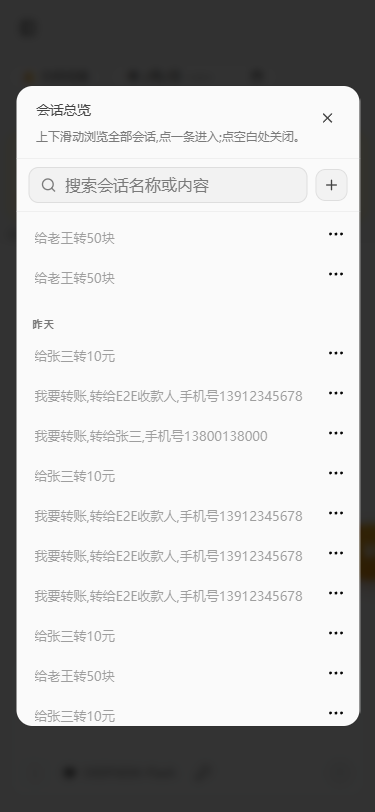
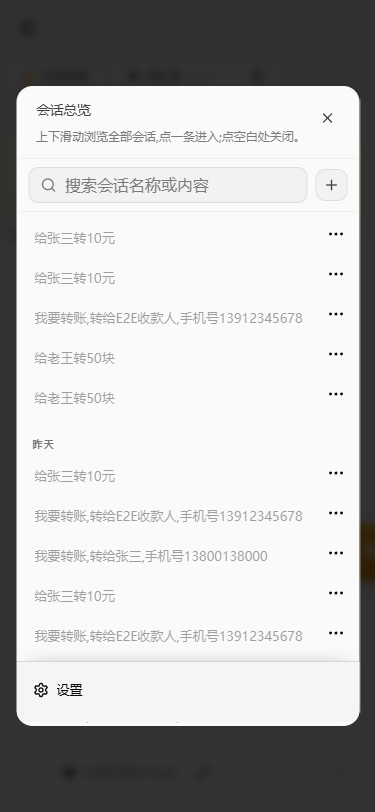
手机端会话总览:设置区吸底固定,列表滚动不再滚走

diff --git a/webui/components/chat/app-sidebar.tsx b/webui/components/chat/app-sidebar.tsx
@@ -314,7 +314,7 @@ export function AppSidebar({ user }: { user: User | undefined }) {
           </SidebarGroup>
           <SidebarHistory searchQuery={query} user={user} />
         </SidebarContent>
-        <SidebarFooter className="border-t border-sidebar-border pt-2 pb-3">
+        <SidebarFooter className="sticky bottom-0 z-10 border-t border-sidebar-border bg-sidebar pt-2 pb-3 shadow-[0_-8px_18px_-14px_rgba(0,0,0,0.35)]">
           {user ? <SidebarSettings /> : null}
         </SidebarFooter>
         <SidebarRail />
